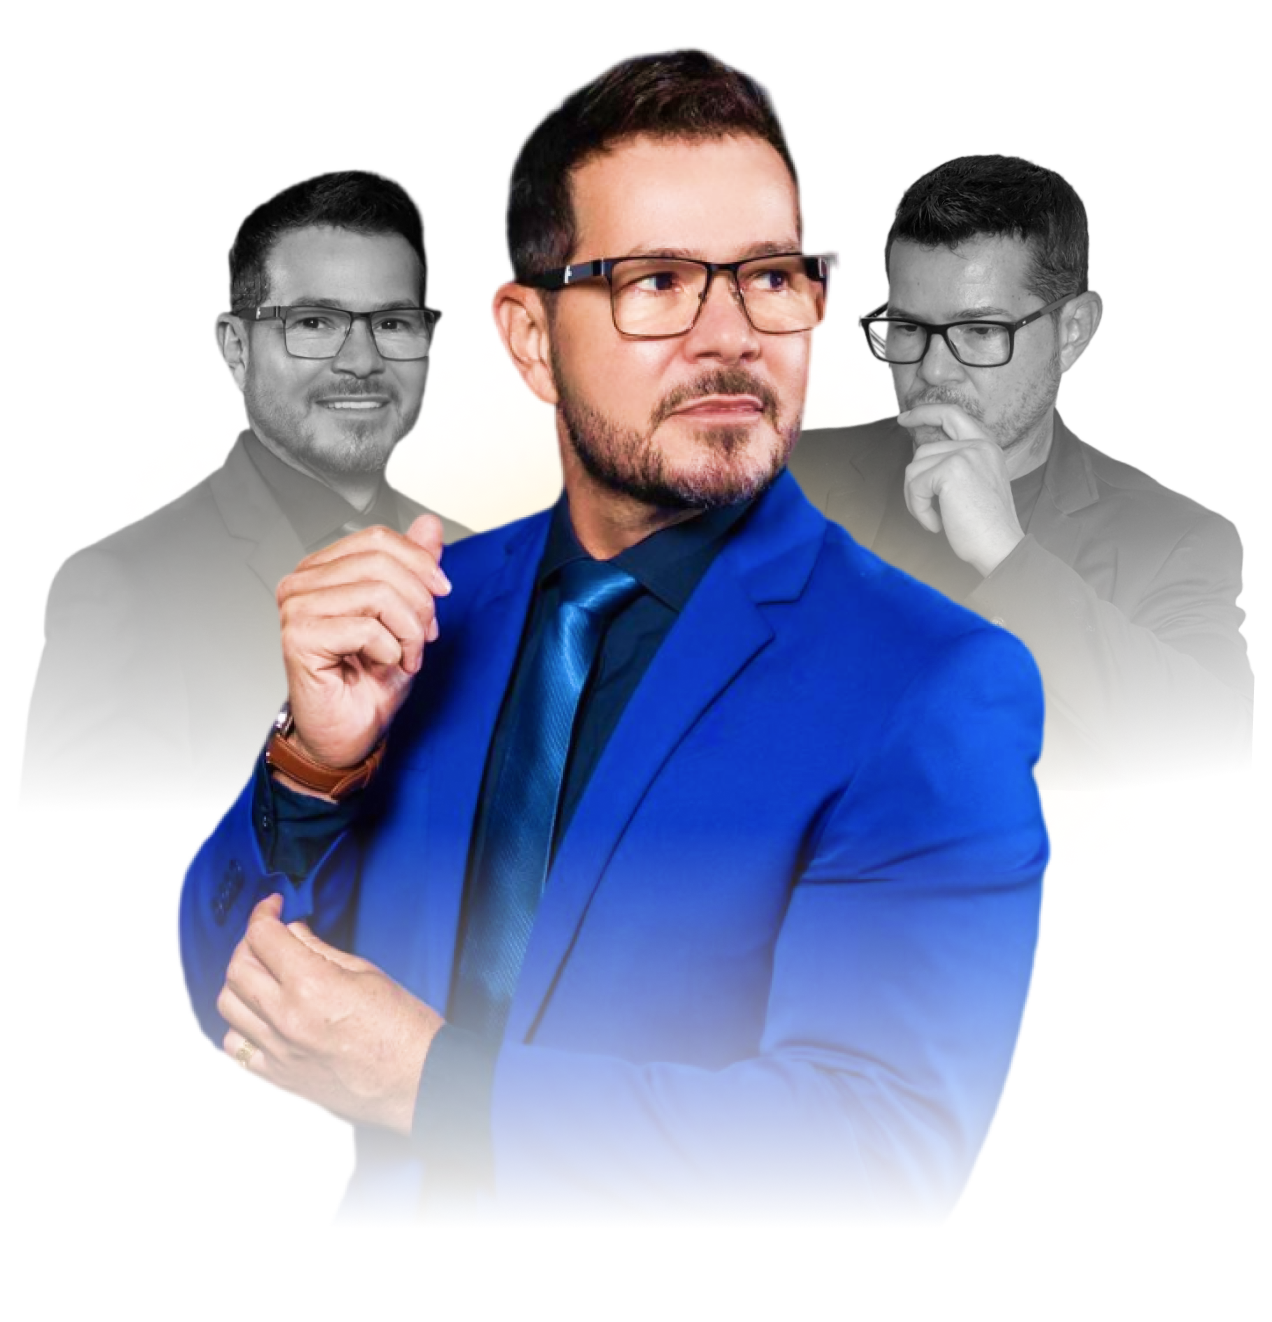
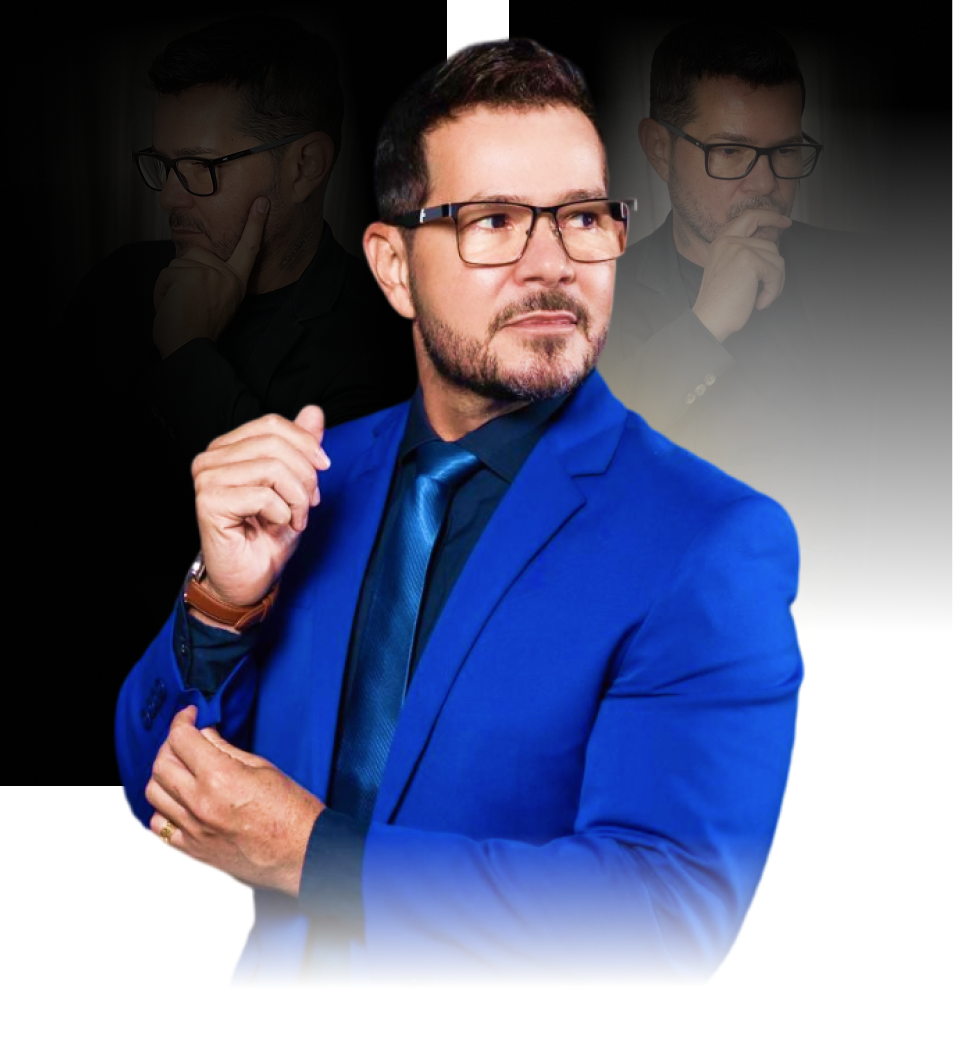
fix: Altera img Hero

diff --git a/src/components/sectionElements/hero/HeroPersonImg.jsx b/src/components/sectionElements/hero/HeroPersonImg.jsx
@@ -9,15 +9,11 @@ import "../../../styles/shapeDivs.css";
 export default function HeroPersonImg({ appDownloadButtons }) {
   return (
     <div
-      className="w-full bg-center desktop1:hidden bg-repeat bg-cover font-mainFont bg-[#1E1E1E] desktop1:pt-[45px]"
+      className="w-full bg-center desktop1:hidden bg-repeat bg-cover font-mainFont bg-black desktop1:pt-[45px]"
       id="home"
       style={{
-        backgroundImage: `url(${content.texts.hero.images.backgroundPerson})`,
-        backgroundSize: "cover",
-        backgroundPosition: "center",
-        backgroundRepeat: "no-repeat",
-        backgroundColor: "rgba(30, 30, 30, 0.6)", // Tom #1E1E1E com opacidade
-        backgroundBlendMode: "darken", // Pode testar "multiply", "overlay" etc.
+        // backgroundImage: `url(${content.texts.hero.images.backgroundPerson})`,
+       
       }}
     >
       <div className="relative z-10 flex w-full bg-black bg-opacity-0 items-left">
